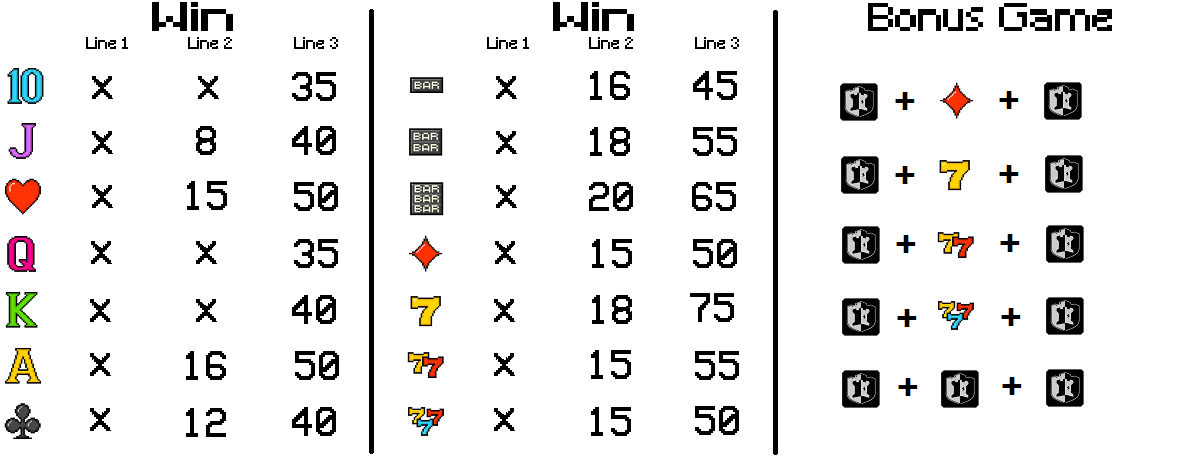
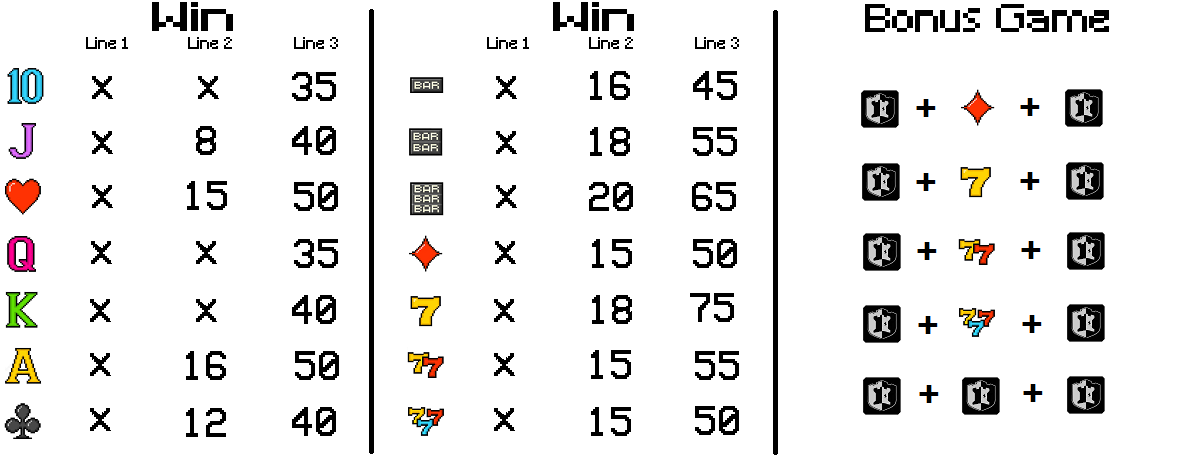
Highscore table overlay bug fixed. Table jackpot prizes re-aligned(img)

diff --git a/script.js b/script.js
@@ -1,5 +1,9 @@
 "use strict";
 
+/**
+ * 8-Bit Casino By: github.com/0xRomRom
+ */
+
 const playerFunds = document.querySelector(".player-funds");
 const gameBalance = document.querySelector(".game-balance");
 const highscoreBalance = document.querySelector(".highscore-balance");
@@ -55,7 +59,7 @@ const line3Win = document.querySelector(".line3Win");
 const prizeLegend = document.querySelector(".prize-legend");
 const prizeChart = document.querySelector(".prize-chart");
 
-//Logic
+//Parameters
 let jackpot = 0;
 let funds = 100;
 let bonusBalance = 0;
@@ -82,8 +86,6 @@ playerFunds.textContent = funds;
 gameBalance.textContent = inGameBalance;
 tokenTopUp.disabled = true;
 
-//
-
 // Action buttons
 insertButton.addEventListener("click", () => {
   insertFunds();
@@ -98,15 +100,11 @@ collectButton.addEventListener("click", () => {
     saveToLocalStorage();
   }
 });
-let spinCount = 0;
+
 playButton.addEventListener("click", () => {
   playGame();
   zeroFunds();
   newFunds();
-  if (inGameBalance > 0) {
-    spinCount++;
-  }
-  console.log(spinCount);
 });
 
 tokenTopUp.addEventListener("click", () => {
@@ -117,6 +115,7 @@ tokenTopUp.addEventListener("click", () => {
 });
 
 settingsButton.addEventListener("click", () => {
+  prizeChart.classList.add("hidden");
   settingsModal.classList.toggle("hidden");
   if ((hiScoreResetModal.style.display = "initial")) {
     hiScoreResetModal.style.display = "none";
@@ -144,7 +143,6 @@ prizeLegend.addEventListener("click", () => {
 });
 
 // Functions
-
 const newFunds = () => {
   if (inGameBalance === 0 && funds === 0) {
     tokenTopUp.disabled = false;
@@ -200,7 +198,6 @@ const creditsAdded = () => {
 };
 
 // Slot win decoration
-
 const winLine1 = () => {
   slot1.classList.add("box-flashing");
 };
@@ -248,7 +245,6 @@ const winLine3 = () => {
 })();
 
 // Wins
-
 const priceWin = () => {
   inGameBalance += winBalance;
   winAmount.textContent = winBalance;
@@ -581,7 +577,6 @@ questionMark4.addEventListener("click", () => {
 });
 
 //Hi-score
-
 const updateHighscore = () => {
   collectButton.disabled = true;
   if (funds > highScore) {
@@ -599,7 +594,6 @@ const updateHighscore = () => {
 };
 
 // Win Logic
-
 const randomSpins = () => {
   // const int1 = 15;
   // const int2 = 15;
